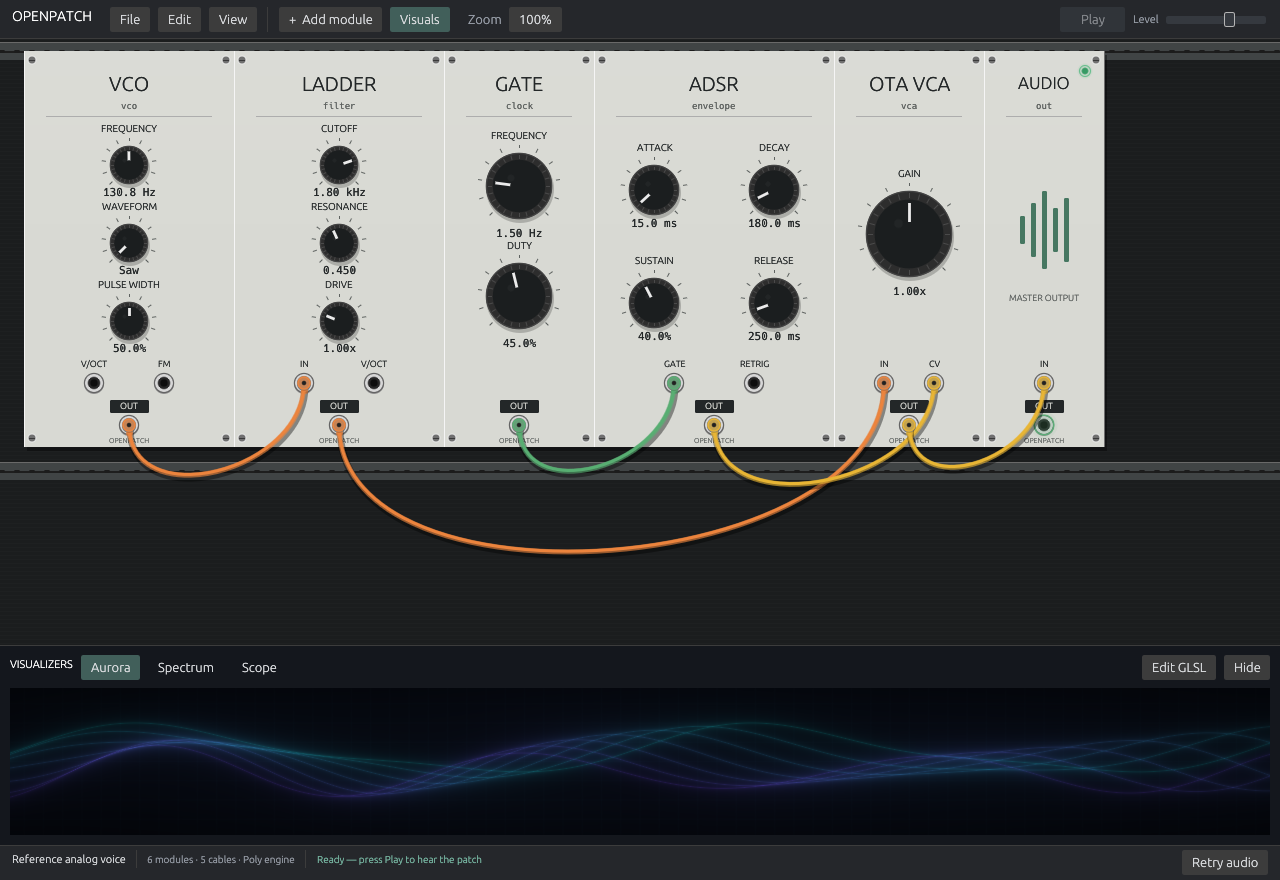
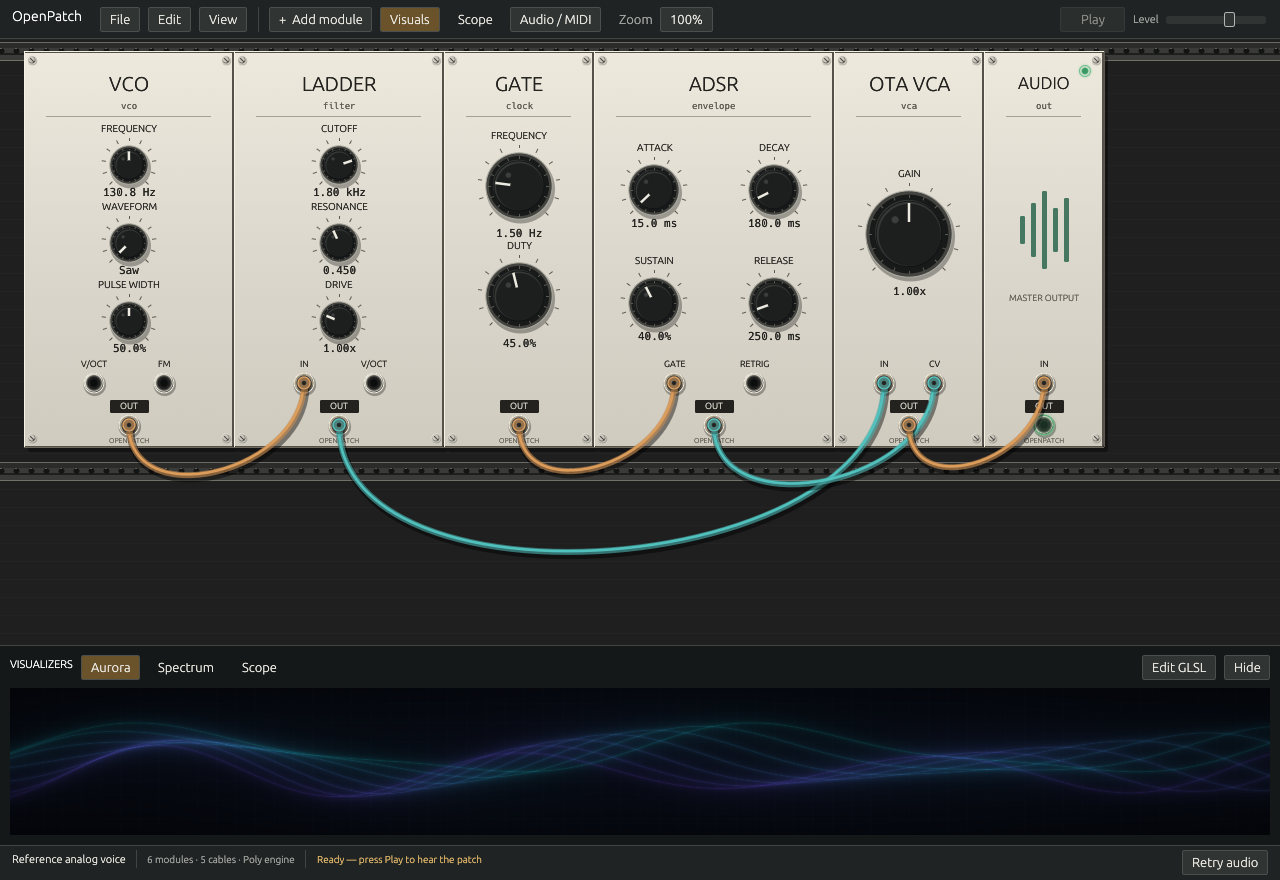
Show native Studio Rack progress in project previews [skip ci]

diff --git a/design/redesign-concepts/README.md b/design/redesign-concepts/README.md
@@ -13,6 +13,12 @@ Selected direction: **01 — Studio Rack**, chosen by the user on 2026-10-13. Us
 
 Implementation starts with procedural rack materials and matching graphite application chrome. The reference's docked thumbnail library, transport layout and integrated measurement dock require subsequent interaction work; this first material pass does not implement the entire mockup. Keep actual port definitions, control geometry and signal behavior authoritative over generated details.
 
+## Native implementation progress
+
+![First Studio Rack material pass in the actual OpenPatch application](../../docs/images/openpatch-rack.png)
+
+The first pass adds smoothly lit warm aluminum panels, beveled edges, machined knobs, recessed jacks, amber selection outlines, raised cable shading and graphite application controls. Existing control positions and patching interactions remain in place. This is an actual Linux/Mesa native render from [commit 4483066](https://github.com/dexterlabs1/openpatch/commit/448306620e42f72edab2767a9cd8455660af4ffe), separate from the generated concepts below; it does not establish macOS device or playback qualification.
+
 ## Visual previews
 
 ### Studio Rack

diff --git a/README.md b/README.md
@@ -22,7 +22,7 @@
 </p>
 
 ![OpenPatch native rack with a VCO, ladder filter, OTA VCA, ADSR, gate clock, and audio output](docs/images/openpatch-rack.png)
-<p align="center"><sub>Native desktop app, rendered on Linux with Mesa in CI. macOS is the primary design target.</sub></p>
+<p align="center"><sub>Studio Rack material pass in the native desktop app, rendered on Linux with Mesa in CI. macOS is the primary design target.</sub></p>
 
 - **An instrument you can patch.** Turn rotary controls, connect cables, and arrange modules on rack rails. Live edits preserve oscillator phase and circuit memory.
 - **A reference analog voice.** Explore a nonlinear transistor ladder, OTA VCA, and switched RC envelope alongside an idealized ramp VCO, gate clock, and voltage/audio interface. Each model has [documented assumptions and validation](docs/ANALOG_MODELS.md).
